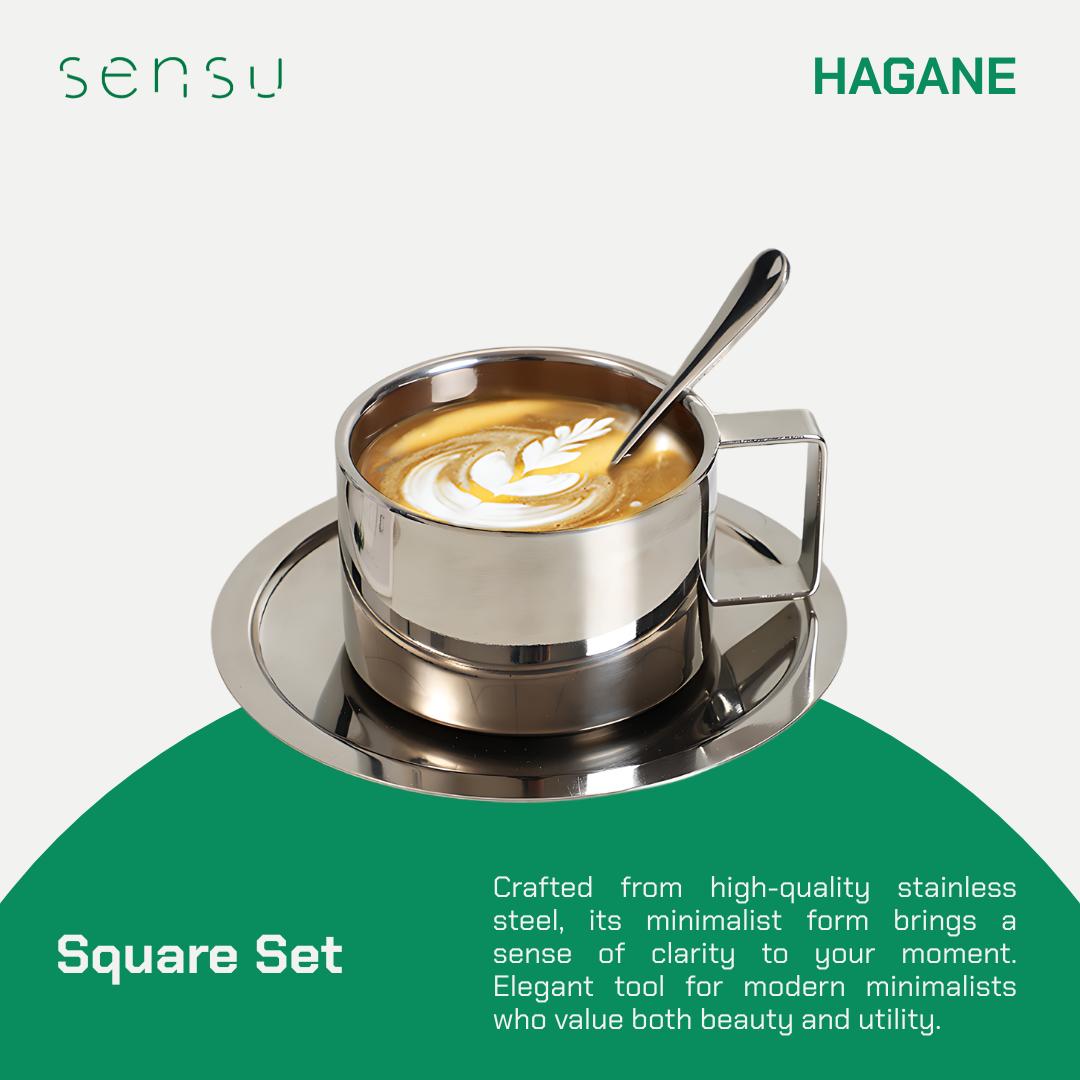
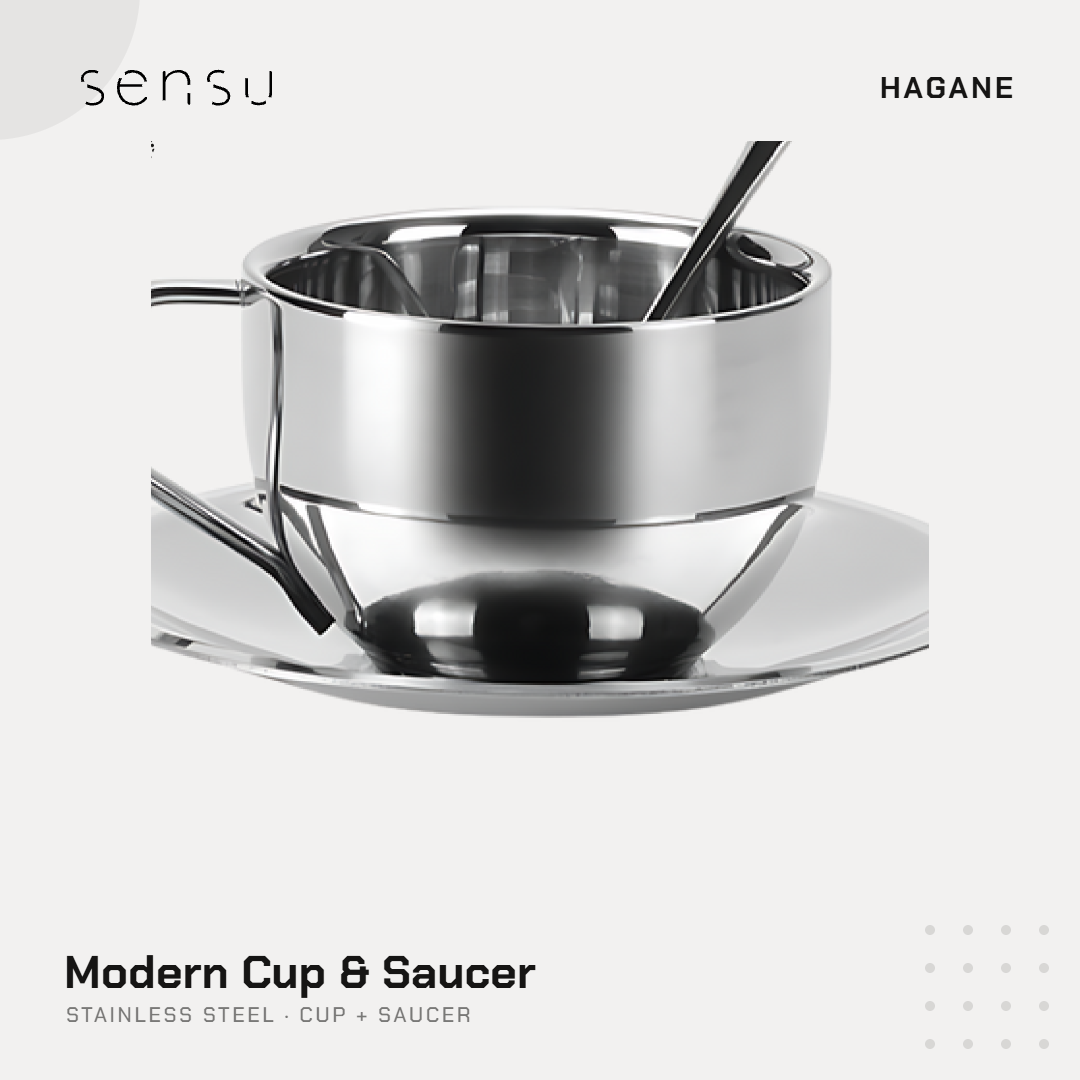
feat(catalog): swap all HAGANE tiles to Design-System brand assets
Pulled 4 hagane tiles from the Sensu Design System zip
(assets/img/products/tiles/) and re-added hagane-matcha-canister
so the steel line has all four brand-template tiles instead of the
3-product subset that survived the previous cleanup.

Mapping
- canister.png       → hagane-matcha-canister (re-added)
- matcha-sifter.png  → hagane-matcha-canister-sifter
- cup-saucer.png     → hagane-modern-cup-saucer
- sifter.png         → hagane-pebble-chakoshi

Catalog count: 27 → 28 pieces (HAGANE 3 → 4).
/shop hero copy updated: "twenty-seven" → "twenty-eight".

diff --git a/content/catalog.ts b/content/catalog.ts
@@ -307,7 +307,17 @@ export const CATALOG: ReadonlyArray<CatalogProduct> = [
     driveFolderId: "1Z-VZojAUZVC60xbkDl3Whk_e6LwcnBPq",
   },
 
-  // HAGANE — 3 products
+  // HAGANE — 4 products
+  {
+    slug: "hagane-matcha-canister",
+    number: 16,
+    name: "Hagane Matcha Canister",
+    collection: "hagane",
+    detail: "Steel · airtight canister",
+    priceUSD: null,
+    images: ["/img/catalog/hagane-matcha-canister/01.png"],
+    driveFolderId: "1qbey9PrQMM537CKCsod_T7I61Ad73qu-",
+  },
   {
     slug: "hagane-matcha-canister-sifter",
     name: "Hagane Airtight Matcha Canister",

diff --git a/app/shop/page.tsx b/app/shop/page.tsx
@@ -67,7 +67,7 @@ export default function ShopPage({
             )}
             <p className="mt-6 max-w-[58ch] text-body-lg text-void/70">
               {meta?.description ??
-                "Four collections, twenty-seven pieces. Filter by material to find what fits your morning."}
+                "Four collections, twenty-eight pieces. Filter by material to find what fits your morning."}
             </p>
           </div>
         </section>